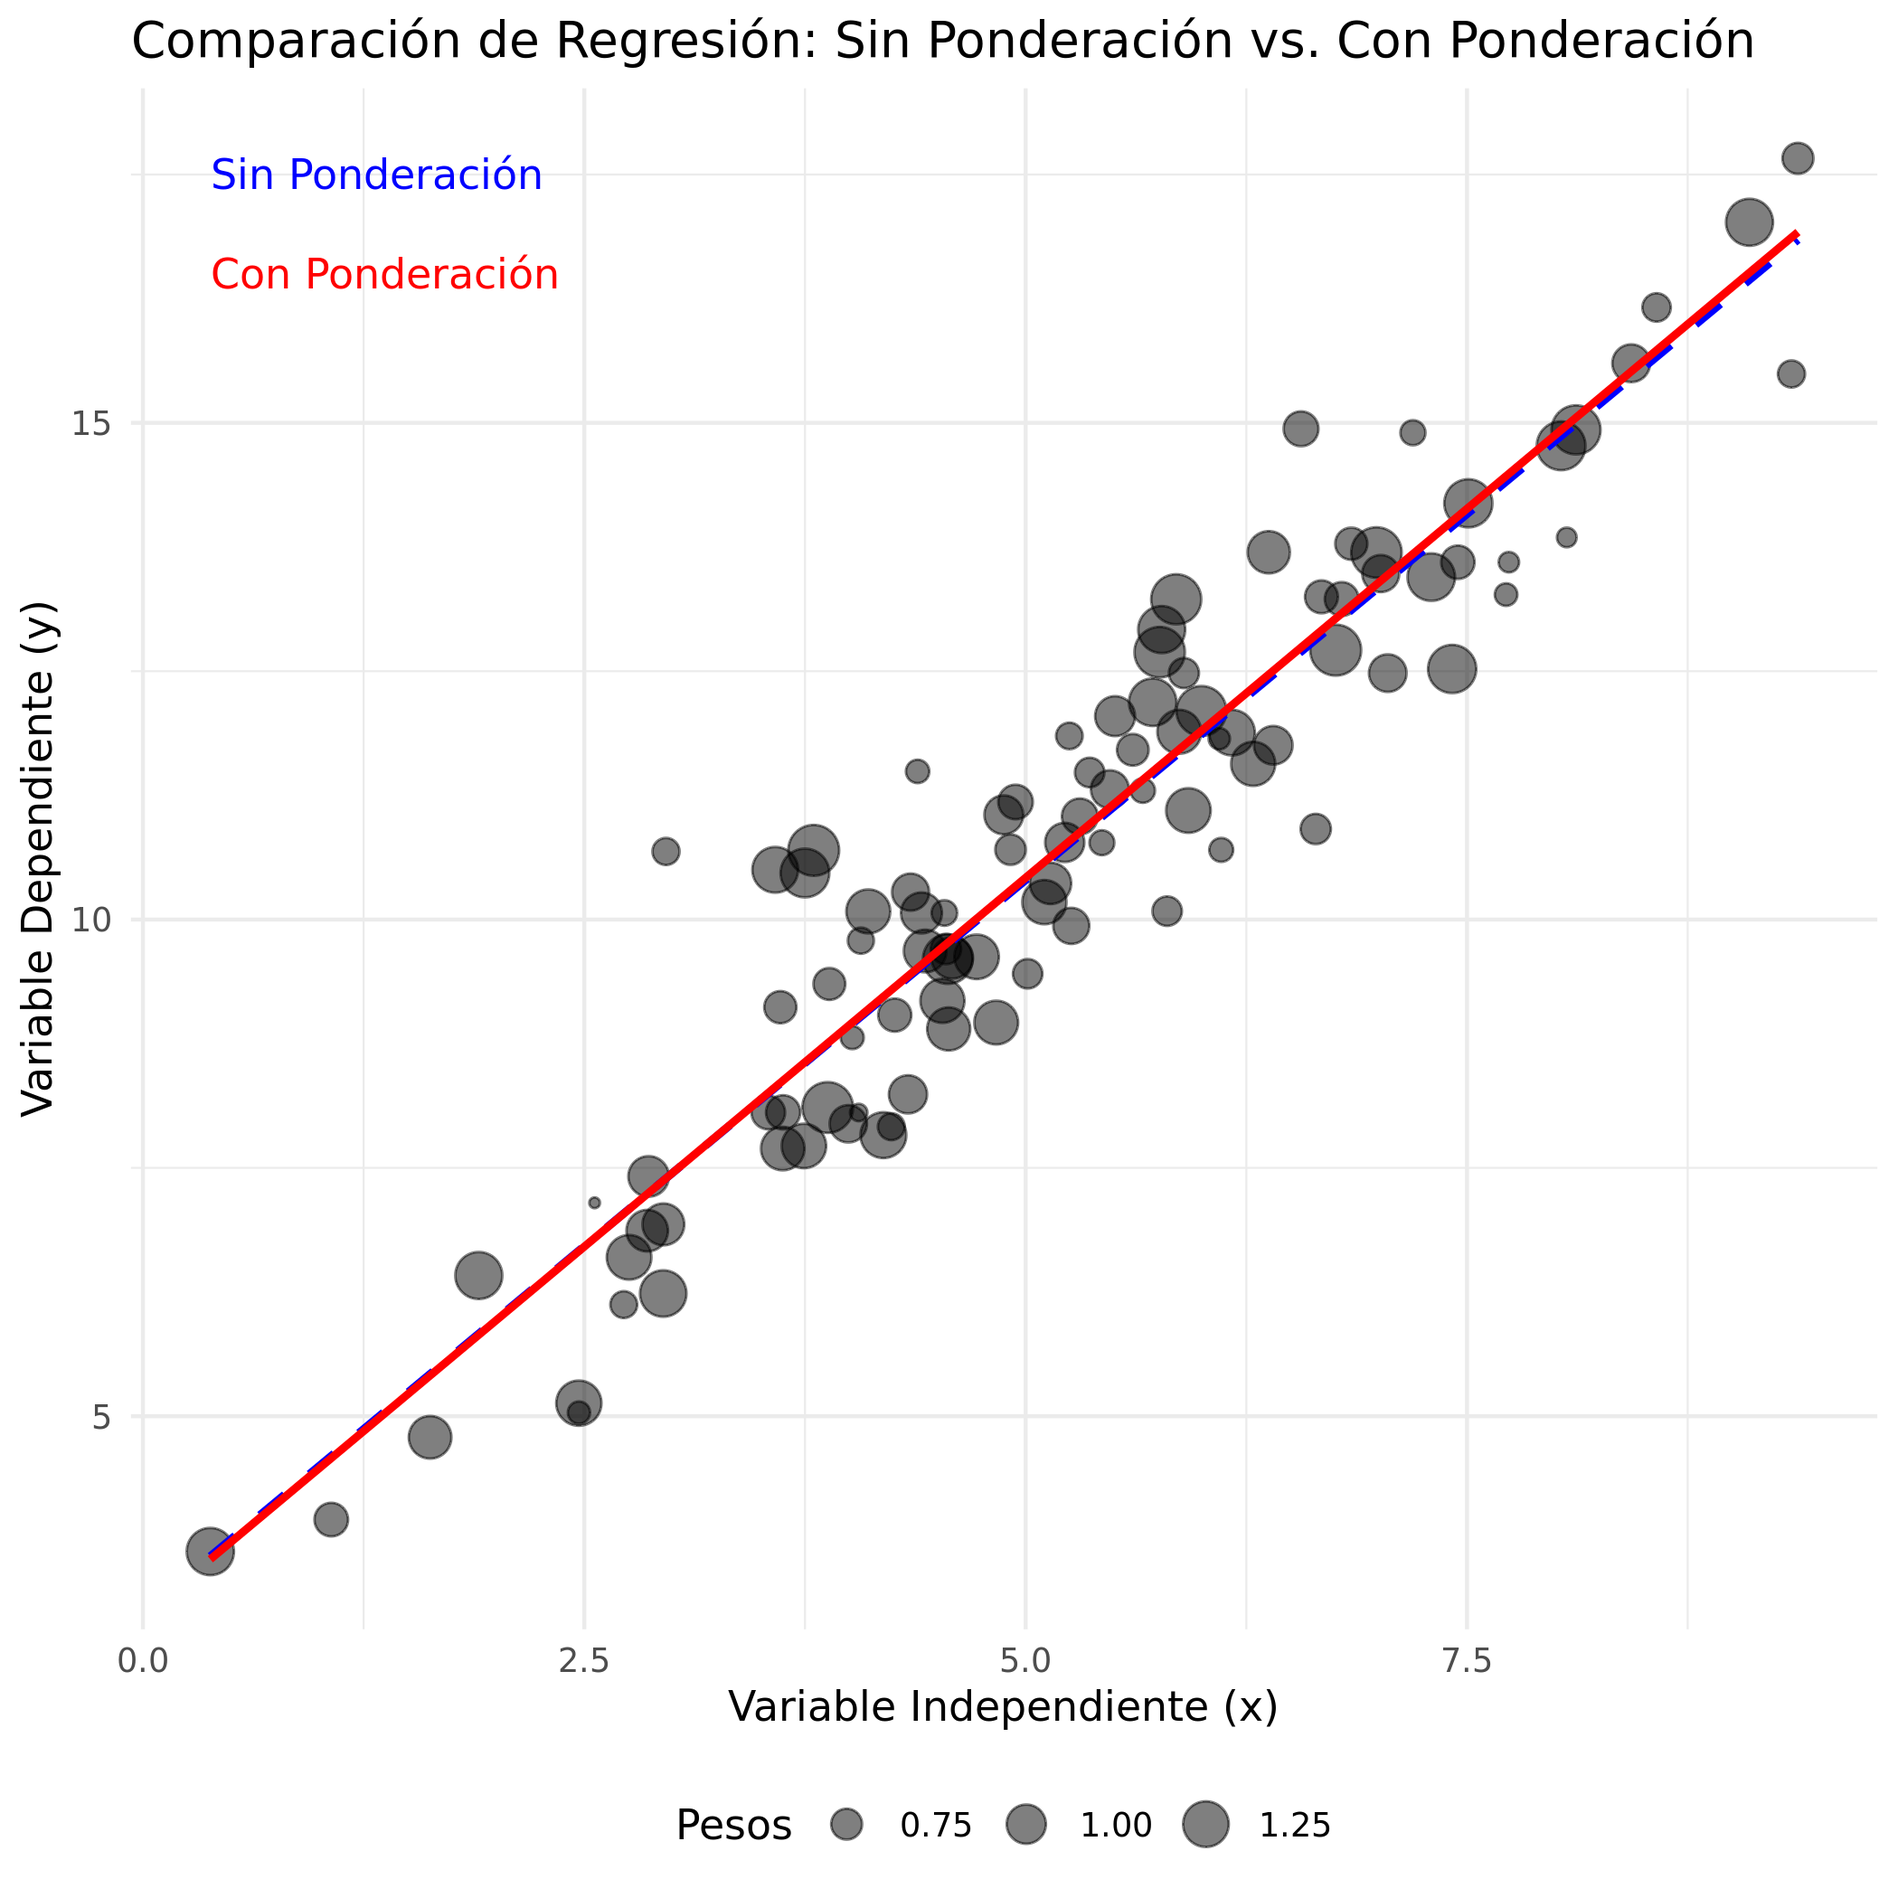
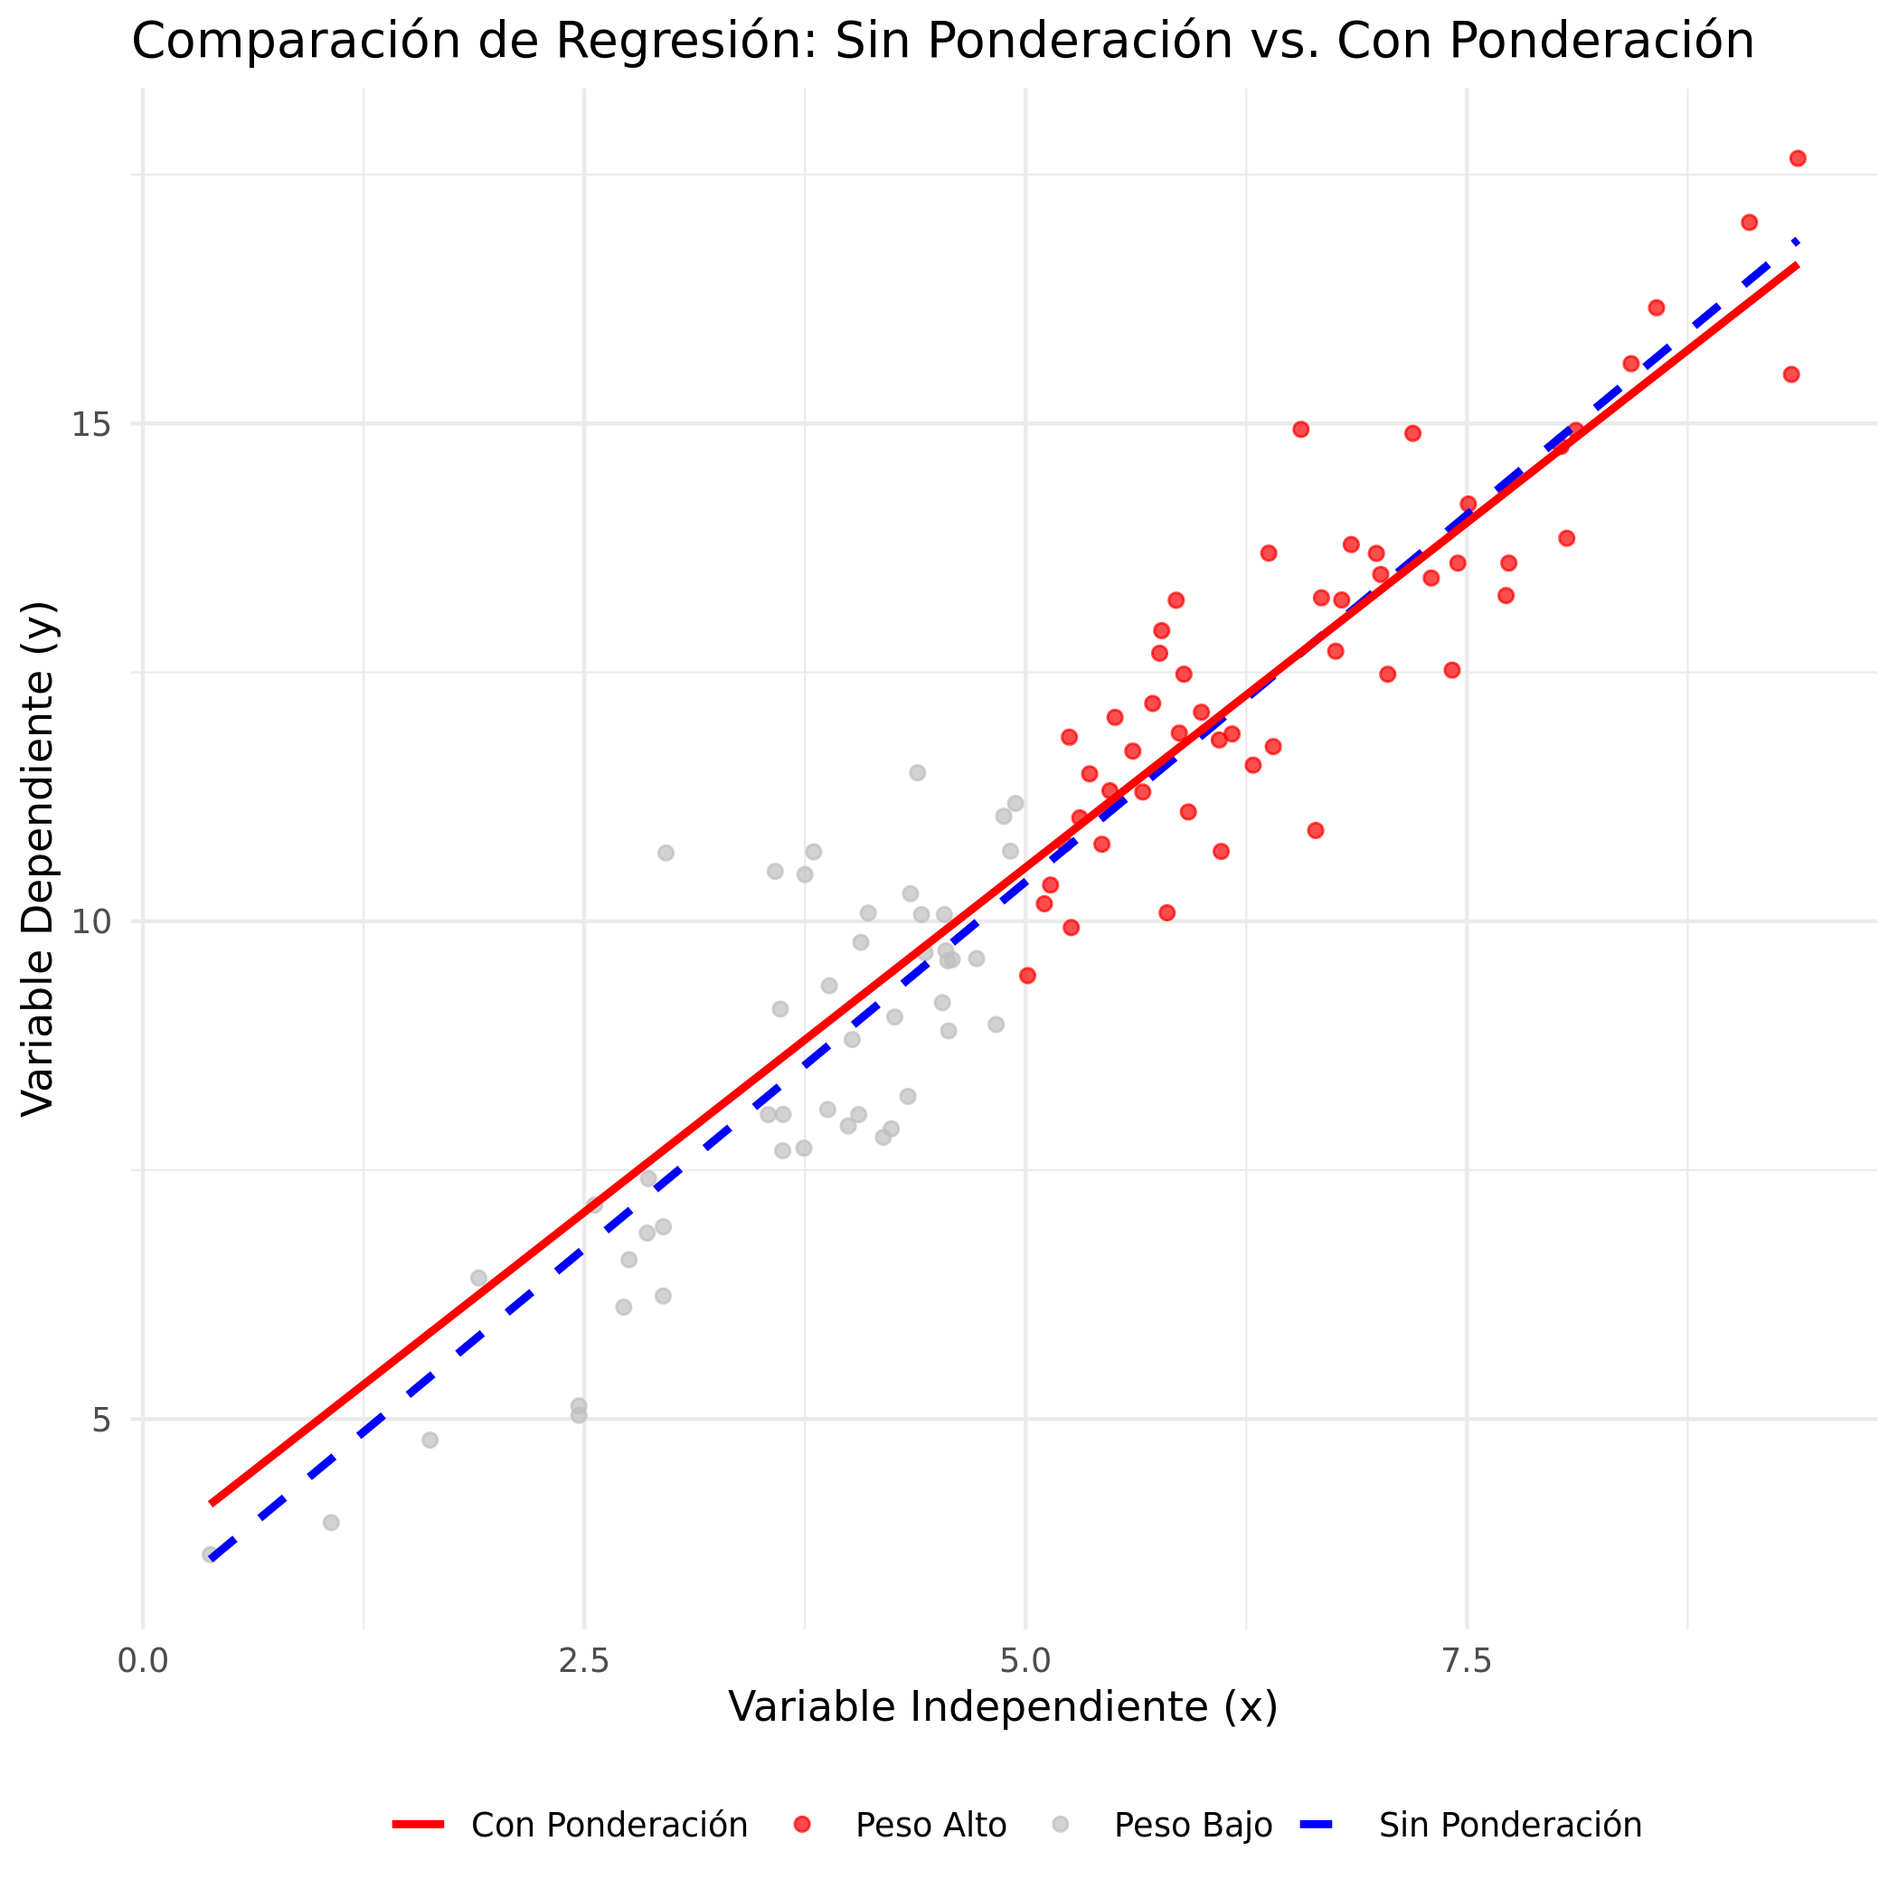
modified:   helloworld.R 	modified:   packages.txt 	modified:   plot.png 	modified:   requirements.txt 	modified:   streamlit_app.py

diff --git a/streamlit_app.py b/streamlit_app.py
@@ -15,11 +15,6 @@ st.write("<p style='font-size:25px;'>1. ¿Qué método utiliza la clase LinearRe
          Scikit-learn por defecto para ajustar un modelo de regresión lineal?</p>", 
          unsafe_allow_html=True)
 
-st.write("<p style='font-size:23px;'>En Scikit-learn para entrenar un modelo de regresion \
-         lineal se hace mediante la clase LinearRegresion del modulo linear_model, esta clase \
-         tiene los siguientes parametros:</p>", 
-         unsafe_allow_html=True)
-
 st.code('''
 model.fit(
         
@@ -74,14 +69,232 @@ st.write('''<p style='font-size:25px;'>
 st.markdown('''
         <p style='font-size:23px;'>
         En R al usar lm() usa la tecnica de minimos cuadrados ordinarios cuando no se indican pesos en el parametro weights, 
-        Si este parametro tiene pesos, usa la tecnica de minimos cuadrados ponderados con los pesos indicados en este parametro.
+        Si este parametro tiene pesos, usa la tecnica de minimos cuadrados ponderados con los pesos indicados en este parametro,
+        un ejemplo de uso y aplicacion de los pesos son los siguientes:
         </p>''', unsafe_allow_html=True)
+
+st.code('''
+library(ggplot2)
+
+set.seed(123)
+n <- 100
+x <- rnorm(n, mean = 5, sd = 2)
+y <- 3 + 1.5 * x + rnorm(n, sd = 1)
+
+# Asignar pesos más extremos
+weights <- ifelse(x > 5, 100, 0.01)  # Pesos muy altos para x > 5, muy bajos para el resto
+
+# Ajustar el modelo sin ponderación
+modelo_sin_ponderacion <- lm(y ~ x)
+
+# Ajustar el modelo con ponderación
+modelo_con_ponderacion <- lm(y ~ x, weights = weights)
+
+# Crear un data frame con las predicciones de ambos modelos
+datos <- data.frame(x = x, y = y, weights = weights)
+datos$pred_sin_ponderacion <- predict(modelo_sin_ponderacion)
+datos$pred_con_ponderacion <- predict(modelo_con_ponderacion)
+
+# Crear una nueva variable para resaltar los puntos con pesos altos
+datos$highlight <- ifelse(datos$weights == 100, "Peso Alto", "Peso Bajo")
+
+# Graficar los datos y las dos líneas de regresión
+ggplot(datos, aes(x = x, y = y)) +
+  geom_point(aes(color = highlight), alpha = 0.7) +  # Colorear según el tipo de peso
+  geom_line(aes(y = pred_sin_ponderacion, color = "Sin Ponderación"), size = 1, linetype = "dashed") +
+  geom_line(aes(y = pred_con_ponderacion, color = "Con Ponderación"), size = 1) +
+  labs(
+    title = "Comparación de Regresión: Sin Ponderación vs. Con Ponderación",
+    x = "Variable Independiente (x)",
+    y = "Variable Dependiente (y)",
+    color = "Modelo"
+  ) +
+  scale_color_manual(
+    name = "",
+    values = c("Sin Ponderación" = "blue", "Con Ponderación" = "red", "Peso Alto" = "red", "Peso Bajo" = "gray")
+  ) +  # Colorear las líneas y los puntos
+  theme_minimal() +
+  theme(legend.position = "bottom") +
+  guides(size = guide_legend(title = "Pesos"))     
+''')
 
 process1 = subprocess.Popen(["Rscript", "helloworld.R"], stdout=subprocess.PIPE, stderr=subprocess.PIPE, text=True)
 result1 = process1.communicate()
 image = Image.open('plot.png')
-st.image(image)
 
+_, col1, _ = st.columns([0.1,0.2,0.1])
+
+with col1:
+        st.image(image,width=600)
+        st.caption('''**Figure 1.** Se asignaron pesos mayores a los datos se asignarion si tienen un valor a 
+                   5 que son los que corresponden al color rojo''')
+
+st.write('''<p style='font-size:25px;'>
+        3. ¿Qué método está diseñado en Scikit-learn para aplicar el descenso del gradiente en la regresión lineal y 
+        cuándo es útil utilizarlo?</p>''', 
+        unsafe_allow_html=True)
+
+st.write('''<p style='font-size:23px;'>
+        Para aplicar el descenso del gradiente en Scikit-learn para regresión lineal es la clase SGDRegressor, los parametros de 
+        esta clase son los siguientes: </p>''', unsafe_allow_html=True)
+
+st.code('''
+SGDRegressor(
+
+        loss: str, default=squared_error
+        #La función de pérdida a utilizar. Puede ser squared_error para mínimos cuadrados,
+        #huber para reducir el impacto de outliers, epsilon_insensitive que ignora errores menores a epsilon,
+        #o squared_epsilon_insensitive que combina ambas.
+
+        epsilon: float, default=0.1
+        #Umbral para las funciones de pérdida huber y epsilon_insensitive.
+            
+        penalty: {l2, l1, elasticnet, None}, default=l2
+        #El término de regularización. None desactiva la penalización.
+
+        alpha: float, default=0.0001
+        #Constante que multiplica el término de regularización.
+
+        l1_ratio: float, default=0.15
+        #Parámetro de mezcla para Elastic Net; controla la proporción de L1 y L2.
+
+        fit_intercept: bool, default=True
+        #Indica si se debe estimar el intercepto. Si es False, se asume que los datos están centrados.
+
+        max_iter: int, default=1000
+        #Máximo número de épocas sobre los datos de entrenamiento.
+
+        tol: float or None, default=1e-3
+        #Criterio de parada. Si es None, el entrenamiento se detiene cuando no mejora después de n_iter_no_change.
+
+        shuffle: bool, default=True
+        #Indica si los datos de entrenamiento deben mezclarse después de cada época.
+
+        verbose: int, default=0
+        #Nivel de detalle del proceso. 
+
+        random_state: int or RandomState, default=None
+        #Controla la aleatoriedad en el barajado de datos cuando shuffle es True.
+
+        learning_rate: str, default='invscaling'
+        #Estrategia de ajuste de tasa de aprendizaje; puede ser 'constant', 'optimal', 'invscaling', o 'adaptive'.
+
+        eta0: float, default=0.01
+        #Tasa de aprendizaje inicial para los ajustes 'constant', 'invscaling' y 'adaptive'.
+
+        power_t: float, default=0.25
+        #Exponente para la tasa de aprendizaje de escalado inverso.
+
+        early_stopping: bool, default=False
+        #Si True, se usa para detener el entrenamiento cuando el rendimiento de validación no mejora.
+
+        validation_fraction: float, default=0.1
+        #Proporción de datos de entrenamiento usados como conjunto de validación.
+
+        n_iter_no_change: int, default=5
+        #Número de iteraciones sin mejora antes de detener el entrenamiento.
+
+        warm_start: bool, default=False
+        #Si es True, reutiliza la solución previa al llamar a fit nuevamente.
+
+        average: bool or int, default=False
+        #Si es True, calcula el promedio de los pesos actualizados en cada paso.
+
+)''',language="python")
+
+import numpy as np
+import matplotlib.pyplot as plt
+from sklearn.linear_model import LinearRegression, SGDRegressor
+from sklearn.datasets import make_regression
+from sklearn.metrics import mean_squared_error
+
+# Generar datos de ejemplo (con ruido)
+X, y = make_regression(n_samples=100, n_features=1, noise=10, random_state=42)
+
+# Modelo de Mínimos Cuadrados Ordinarios (OLS)
+ols = LinearRegression()
+ols.fit(X, y)
+
+# Predicciones de OLS
+y_pred_ols = ols.predict(X)
+
+# Modelo de Descenso del Gradiente (SGD)
+sgd = SGDRegressor(max_iter=1000, tol=1e-3, random_state=42)
+sgd.fit(X, y)
+
+# Predicciones de Descenso del Gradiente
+y_pred_sgd = sgd.predict(X)
+
+# Ordenar los datos para visualización
+sorted_indices = np.argsort(X.flatten())
+X_sorted = X[sorted_indices]
+y_pred_ols_sorted = y_pred_ols[sorted_indices]
+y_pred_sgd_sorted = y_pred_sgd[sorted_indices]
+
+# Visualizar los resultados
+plt.figure(figsize=(8, 8))
+plt.scatter(X, y, color='#C9C9C9', label='Datos reales')
+plt.plot(X_sorted, y_pred_ols_sorted, color='red', label='OLS - Mínimos Cuadrados', linestyle='-', linewidth=2)
+plt.plot(X_sorted, y_pred_sgd_sorted, color='blue', label='SGD - Descenso del Gradiente', linestyle='--', linewidth=2)
+plt.xlabel('X')
+plt.ylabel('y')
+plt.grid(True)
+plt.title('Comparación de Regresión: Mínimos Cuadrados vs. Descenso del Gradiente')
+plt.legend()
+_, col1, _ = st.columns([0.1,0.2,0.1])
+
+with col1:
+        st.pyplot(plt)
+
+### 4 punto
+
+st.write('''
+        <p style='font-size:25px;'>
+        4. ¿Qué función en R está diseñada para aplicar el descenso del gradiente en la regresión lineal y 
+        en qué casos es útil utilizarla?</p>
+        ''', unsafe_allow_html=True)
+
+
+### 5 punto
+st.write('''
+        <p style='font-size:25px;'>
+        5. ¿Qué significan los parámetros fit intercept, normalize y positive en la clase LinearRegression de Scikitlearn?</p>
+        ''', unsafe_allow_html=True)
+
+st.write('''
+        <p style='font-size:23px;'>En Scikit-learn para entrenar un modelo de regresion 
+        lineal se hace mediante la clase LinearRegresion del modulo linear_model, esta clase
+        tiene los siguientes parametros:</p>''', 
+         unsafe_allow_html=True)
+
+st.code(
+'''
+from sklearn.linear_model import LinearRegression # Existe un modulo unicamente para modelos lineales :0
+
+model = LinearRegression(
+
+        fit_intercept: bool, default=True 
+        #Parametro para calcular el intercepto o no. Si se establece en False, no se utilizará ningún intercepto 
+        #en los cálculos pero se espera que los datos estén centrados). 
+
+        copy_X: bool, default=True
+        #Parametro para hacer una copia de los datos, Si se marca como False se sobreescribiran los cambios en los datos originales 
+
+        positive: bool, default=False
+        #Cuando se establece en True, obliga a que los coeficientes sean positivos. Esta opción sólo es compatible con matrices densas.
+
+        n_jobs: int, default=None
+        #número de núcleos que el algoritmo debe utilizar para procesar la tarea. Esto sólo proporcionará un aumento de velocidad en el 
+        #caso de problemas suficientemente grandes, esta opcion se positive se establece en True. Si el parametro es None significa 1 a 
+        #menos que esté en un contexto joblib.parallel_backend. -1 significa utilizar todos los procesadores.
+
+        #Si el parámetro positive es True, añade una restricción adicional en el ajuste del modelo, y el cálculo se vuelve más complejo 
+        #porque el algoritmo tiene que asegurarse de que todas las soluciones cumplen con esta restricción, por lo que no puede usar el 
+        #método estándar de mínimos cuadrados ordinarios. En su lugar, necesita utilizar un algoritmo de optimización restringida, como 
+        #Least Squares with Non-Negative Constraints (NNLS), que tiene un costo computacional mayor y por lo tanto se necesitan mas jobs.
+        )
+''',language='python'
+)
 
 ### 6 punto
 st.write("<p style='font-size:25px;'>6. ¿Qué significan los parámetros formula, data, subset, weights, na.action, y method en la \
@@ -143,31 +356,3 @@ st.write("<p style='font-size:23px;'>El modelo no necesita de indicar un entrena
         el modelo se entrena de inmediato y usa la tecnica de Minimos cuadrados si no se indicaron pesos, si se indicaron pesos se usa minimos \
         cuadrados ponderados con los respectivos</p>", 
         unsafe_allow_html=True)
-
-
-'''
-from sklearn.linear_model import LinearRegression # Existe un modulo unicamente para modelos lineales :0
-
-model = LinearRegression(
-
-        fit_intercept: bool, default=True 
-        #Parametro para calcular el intercepto o no. Si se establece en False, no se utilizará ningún intercepto 
-        #en los cálculos pero se espera que los datos estén centrados). 
-
-        copy_X: bool, default=True
-        #Parametro para hacer una copia de los datos, Si se marca como False se sobreescribiran los cambios en los datos originales 
-
-        positive: bool, default=False
-        #Cuando se establece en True, obliga a que los coeficientes sean positivos. Esta opción sólo es compatible con matrices densas.
-
-        n_jobs: int, default=None
-        #número de núcleos que el algoritmo debe utilizar para procesar la tarea. Esto sólo proporcionará un aumento de velocidad en el 
-        #caso de problemas suficientemente grandes, esta opcion se positive se establece en True. Si el parametro es None significa 1 a 
-        #menos que esté en un contexto joblib.parallel_backend. -1 significa utilizar todos los procesadores.
-
-        #Si el parámetro positive es True, añade una restricción adicional en el ajuste del modelo, y el cálculo se vuelve más complejo 
-        #porque el algoritmo tiene que asegurarse de que todas las soluciones cumplen con esta restricción, por lo que no puede usar el 
-        #método estándar de mínimos cuadrados ordinarios. En su lugar, necesita utilizar un algoritmo de optimización restringida, como 
-        #Least Squares with Non-Negative Constraints (NNLS), que tiene un costo computacional mayor y por lo tanto se necesitan mas jobs.
-        )
-'''
